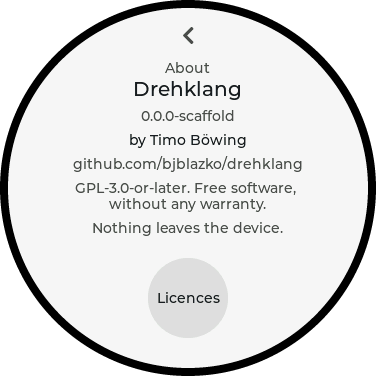
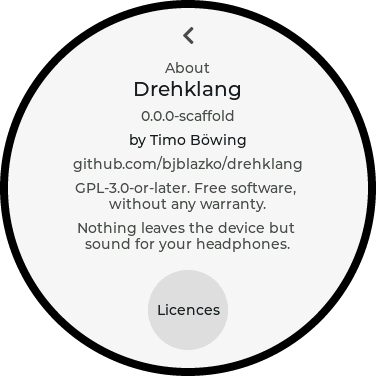
Act on the legal check before merging Bluetooth
- The Bluetooth firmware (bt/, lib/btlink/, lib/btaudio/) links
  Espressif's binary-only Bluetooth libraries; its files now carry a GPL
  section 7 permission for that (LINKING-EXCEPTION.md).
- About says that sound goes to the headphones with Bluetooth on; its
  column is taller and the Licences button lower so both lines fit.
- ADR 0027 lists what stays open for a first binary release.

Changed region(s): [[0.2048, 0.5851, 0.7899, 0.6729], [0.4096, 0.7606, 0.5851, 0.8484]]

diff --git a/lib/ui/ScreenManagerMenu.cpp b/lib/ui/ScreenManagerMenu.cpp
@@ -717,9 +717,12 @@ void ScreenManager::renderLicenceDetail() {
 // it is the way on, not what this page is for.
 void ScreenManager::renderAbout() {
   constexpr lv_coord_t kLicencesSize = 80;
-  constexpr lv_coord_t kLicencesY = 110;
+  // Clear of the column's last line, which wraps to two since About says
+  // where sound goes with Bluetooth on (ADR 0027).
+  constexpr lv_coord_t kLicencesY = 122;
 
-  lv_obj_t *column = makeTextColumn(screen_, 170, -25);
+  // 190 tall, top edge where it always was: the privacy line wraps to two.
+  lv_obj_t *column = makeTextColumn(screen_, 190, -15);
   addColumnText(column, "Drehklang", &drehklang_text_font_20, theme::ink());
   addColumnText(column, kVersion, &drehklang_text_font_14, theme::structure());
   char byLine[48];

diff --git a/lib/about/Credits.h b/lib/about/Credits.h
@@ -66,7 +66,8 @@ inline constexpr const char *kAuthor = "Timo B\xC3\xB6wing";
 inline constexpr const char *kOwnLicence = "GPL-3.0-or-later";
 inline constexpr const char *kOwnHome = "github.com/bjblazko/drehklang";
 inline constexpr const char *kNoWarranty = "Free software, without any warranty.";
-// True as long as the firmware has no network at all.
-inline constexpr const char *kPrivacy = "Nothing leaves the device.";
+// True as long as the firmware has no network at all. With Bluetooth on,
+// the sound goes to the paired headphones (ADR 0027), so it says so.
+inline constexpr const char *kPrivacy = "Nothing leaves the device but sound for your headphones.";
 
 }  // namespace drehklang::about

diff --git a/LINKING-EXCEPTION.md b/LINKING-EXCEPTION.md
@@ -1,0 +1,25 @@
+# Additional permission for the Bluetooth firmware
+
+The Bluetooth firmware -- the files in `bt/`, `lib/btlink/` and
+`lib/btaudio/` -- is licensed under the GNU General Public License,
+version 3 or later (see [LICENSE](LICENSE)), with the following additional
+permission under section 7 of that licence:
+
+> If you modify this Program, or any covered work, by linking or combining
+> it with the binary-only libraries that Espressif Systems distributes with
+> ESP-IDF and Arduino-ESP32 (such as the Bluetooth controller
+> `libbtdm_app`, `libbtbb`, `libphy` and `libcoexist`), containing parts
+> covered by the terms of Espressif's licence for those libraries, the
+> licensors of this Program grant you additional permission to convey the
+> resulting work. Corresponding Source for a non-source form of such a
+> combination shall not include the source code for those libraries.
+
+Why: the Bluetooth firmware cannot run on the ESP32-U4WDH without those
+libraries, and their source is not published, so the GPL alone would not
+allow passing on a built firmware (ADR 0027). The exception covers only
+these files, all written for Drehklang.
+
+It does not cover the main firmware on the ESP32-S3. That links the same
+kind of libraries together with ESP32-audioI2S, whose GPL-3.0 code only its
+own authors could grant such a permission for. Settling that is part of
+the decision before the first binary release (ADR 0026, HE-AAC).

diff --git a/docs/adr/0027-bluetooth-headphones.md b/docs/adr/0027-bluetooth-headphones.md
@@ -200,6 +200,19 @@ found:
 
 ## Open
 
+- **Legal check (2026-10-05) before merging.**
+  - **Licence:** the Bluetooth firmware links Espressif's binary-only
+    libraries, so its files carry a GPL section 7 linking permission
+    (LINKING-EXCEPTION.md).
+  - **Still open for the first binary release:** the S3 firmware links the
+    same kind of libraries together with ESP32-audioI2S (decide together
+    with HE-AAC, ADR 0026), and Bluetooth qualification for devices passed
+    on, since the patent and trademark licences of the Bluetooth SIG cover
+    qualified products. The lock screen keeps the Bluetooth logo glyph;
+    that is fine for a private repository, and it is to be checked again
+    at that point.
+  - **About** now says that sound goes to the headphones.
+
 - **Delay on the headphones in games.** Sound reaches the headphones
   ~300 ms after the jack:
   - Bluetooth itself (SBC and the headphones' buffer) accounts for

diff --git a/THIRD-PARTY.md b/THIRD-PARTY.md
@@ -27,6 +27,11 @@ three in step).
 | [Font Awesome 5 Free](https://fontawesome.com) (bundled by LVGL as `scripts/built_in_font/FontAwesome5-Solid+Brands+Regular.woff`) | The `LV_SYMBOL_*` icon glyphs embedded in `lib/ui-widgets/TextFont*.c` (same codepoint range as LVGL's own built-in Montserrat fonts) | CC-BY-4.0 (icons) / OFL-1.1 (font) | Font Awesome by Fonticons, Inc. |
 | [Unity](https://github.com/ThrowTheSwitch/Unity) | Host-side unit tests only (not shipped) | MIT | |
 
+The Bluetooth firmware links Espressif's binary-only Bluetooth controller
+and radio libraries (`libbtdm_app`, `libbtbb`, `libphy`, `libcoexist`, part
+of ESP-IDF); its own files carry an additional permission for that, see
+[LINKING-EXCEPTION.md](LINKING-EXCEPTION.md).
+
 GPL-3.0-or-later for Drehklang is not a free choice: ESP32-audioI2S is
 GPL-3.0, so any distributed firmware linking it is covered as a whole.
 

diff --git a/README.md b/README.md
@@ -366,6 +366,9 @@ session — never at boot, so the device is usable the moment it powers on.
 ## License
 
 Drehklang is licensed under **GPL-3.0-or-later** — see [LICENSE](LICENSE).
+The Bluetooth firmware (`bt/`, `lib/btlink/`, `lib/btaudio/`) carries an
+additional permission to link Espressif's binary-only Bluetooth libraries
+— see [LINKING-EXCEPTION.md](LINKING-EXCEPTION.md).
 
 That follows from the audio library: ESP32-audioI2S is GPL-3.0, so
 firmware linking it is covered as a whole. [THIRD-PARTY.md](THIRD-PARTY.md)
